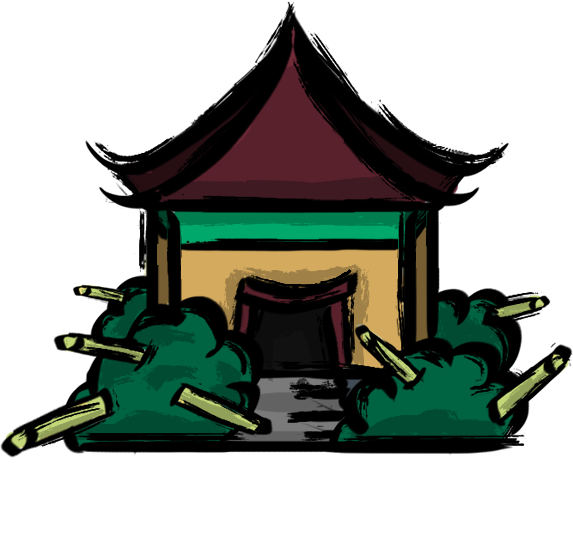
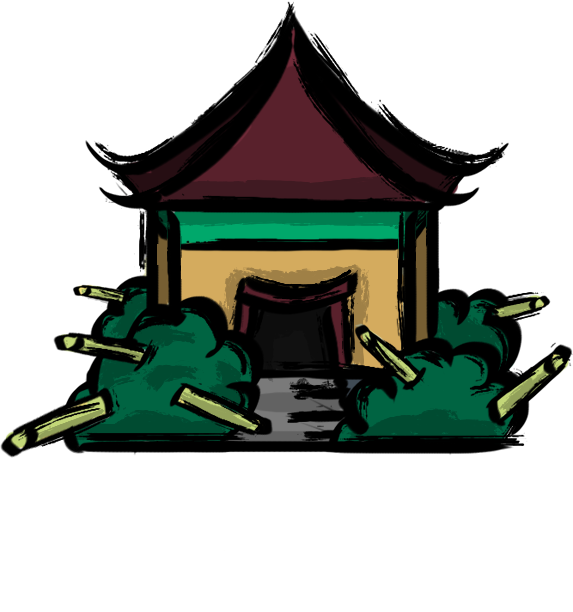
towers realigned
realigned all towers and tower upgrade sprites

diff --git a/Assets/Development/Scripts/GameController.cs b/Assets/Development/Scripts/GameController.cs
@@ -12,7 +12,7 @@ public class GameController : MonoBehaviour
     private void Awake() {
         Gems = PlayerPrefs.GetInt("Gems");
         MainTowerHP = 10;
-        Gold = 30;
+        Gold = 1000;
         Mana = 10;
         GameTime.SetTimeScale(1);
     }
